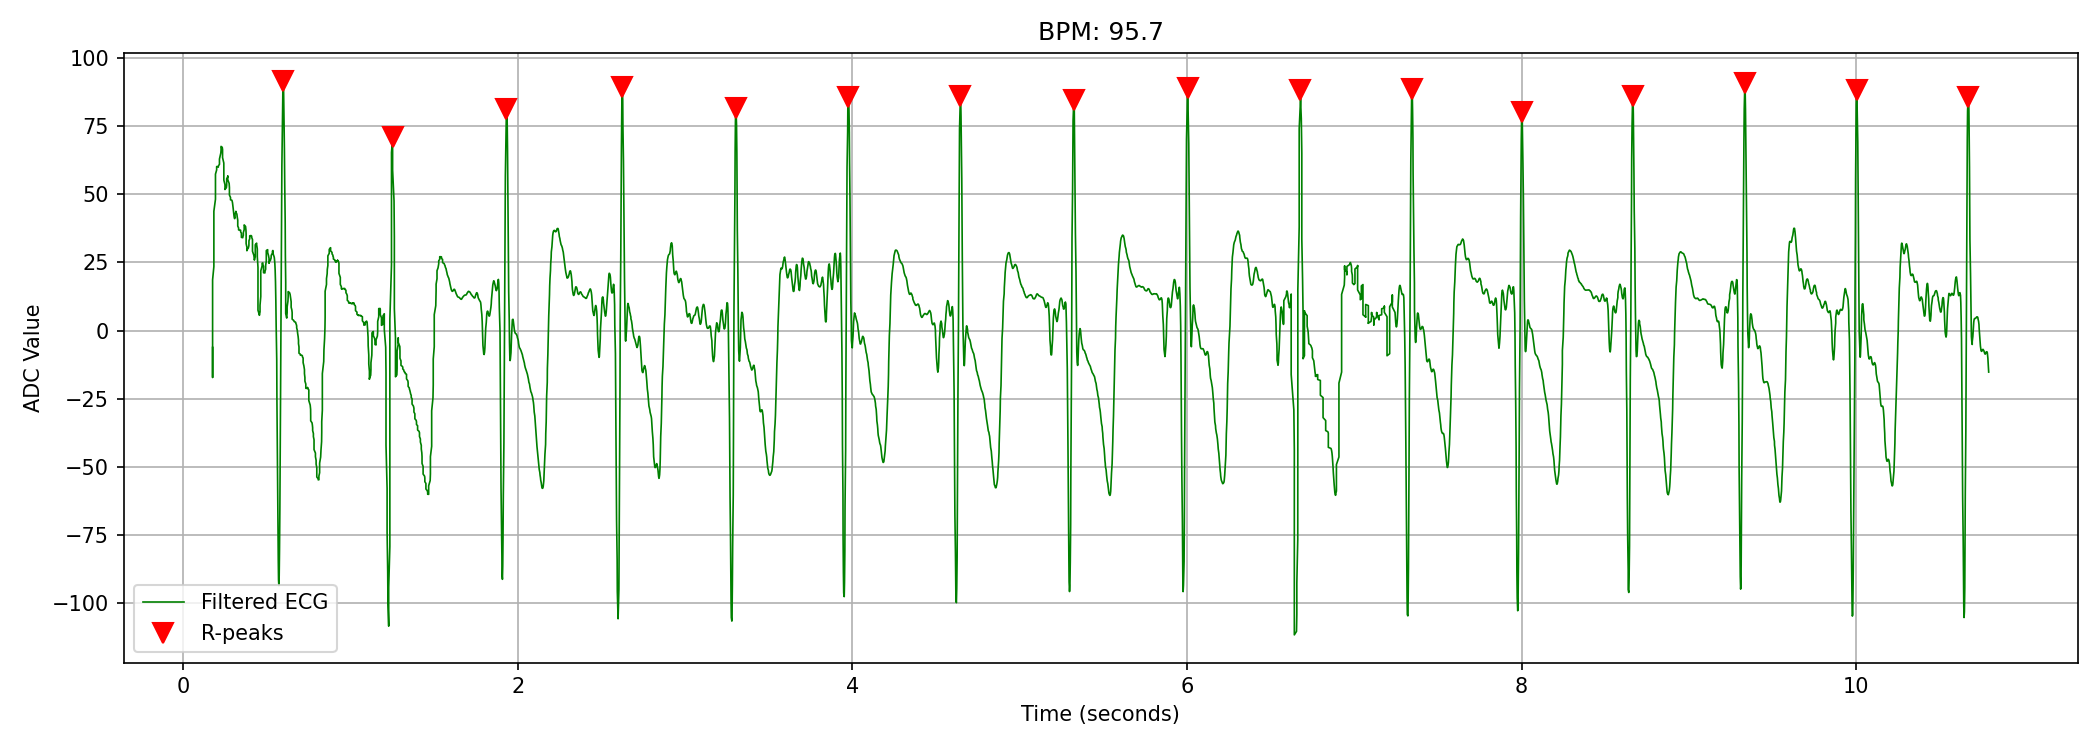
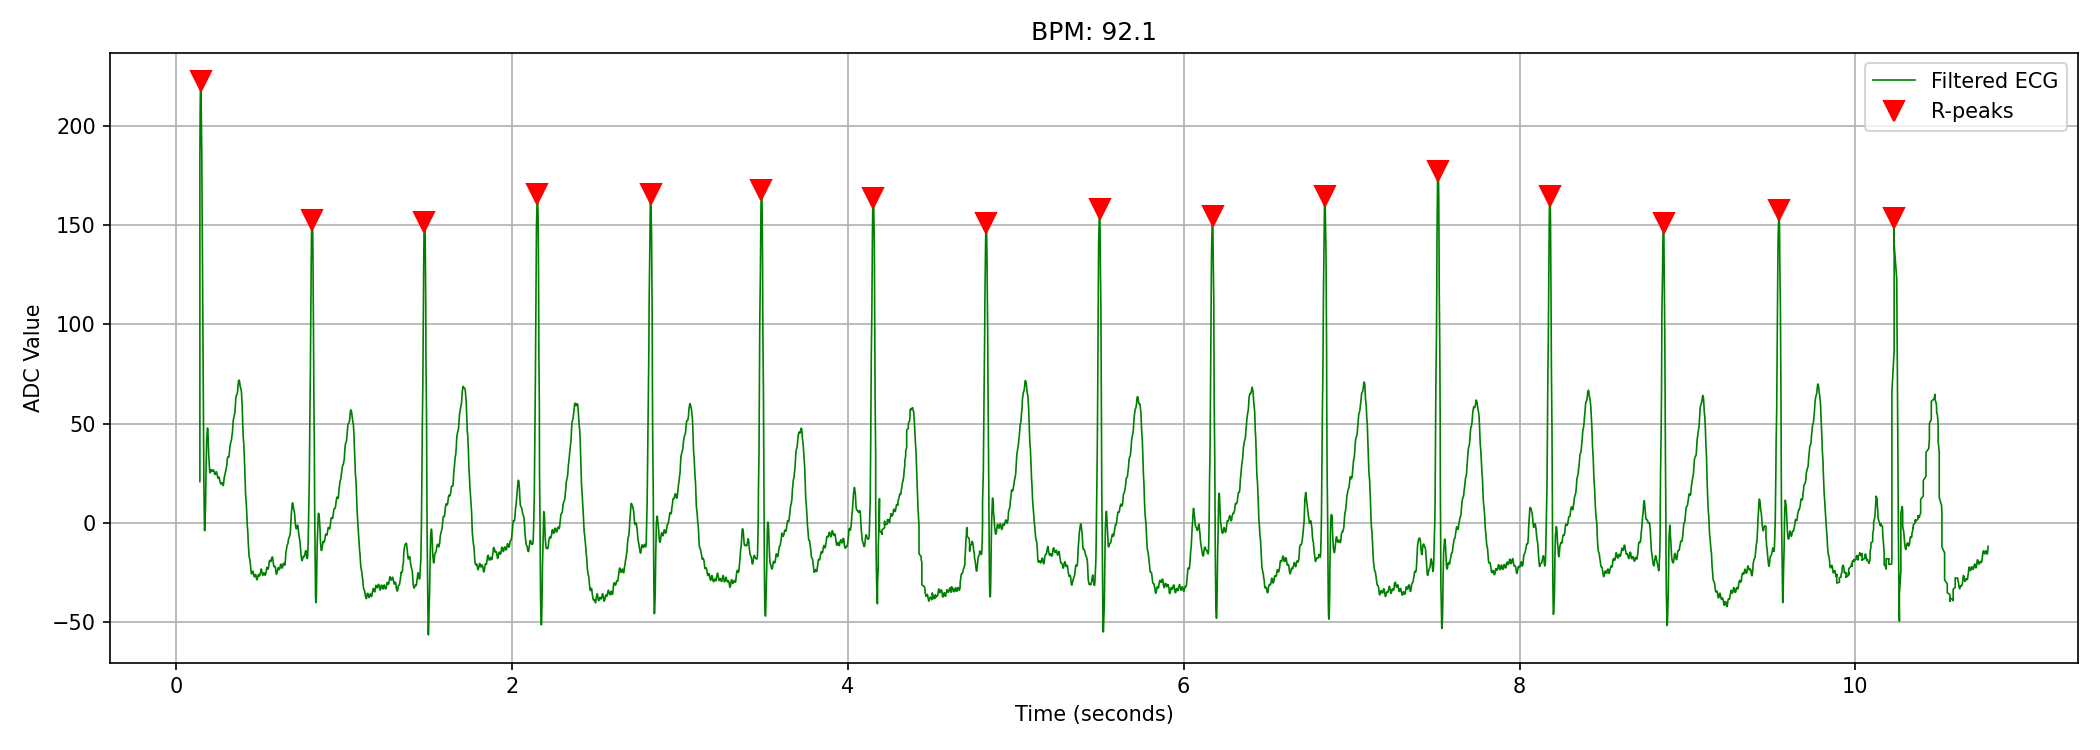
Complete Experiment 1 — all resting recovery HRV metrics

diff --git a/signal_processing/peak_detection.py b/signal_processing/peak_detection.py
@@ -49,7 +49,7 @@ def plot_single_beat(filtered, peaks, timestamps, fs=533):
     print("Single beat plot saved to results/experiment_1/single_beat_pqrst.png")
     plt.show()
 def main():
-    df = pd.read_csv('../results/experiment_1/recovery_trial_3.csv')
+    df = pd.read_csv('../results/experiment_1/recovery_trial_2.csv')
     raw = df['ecg_value'].values.astype(float)
     timestamps = df['timestamp'].values
     fs = 533